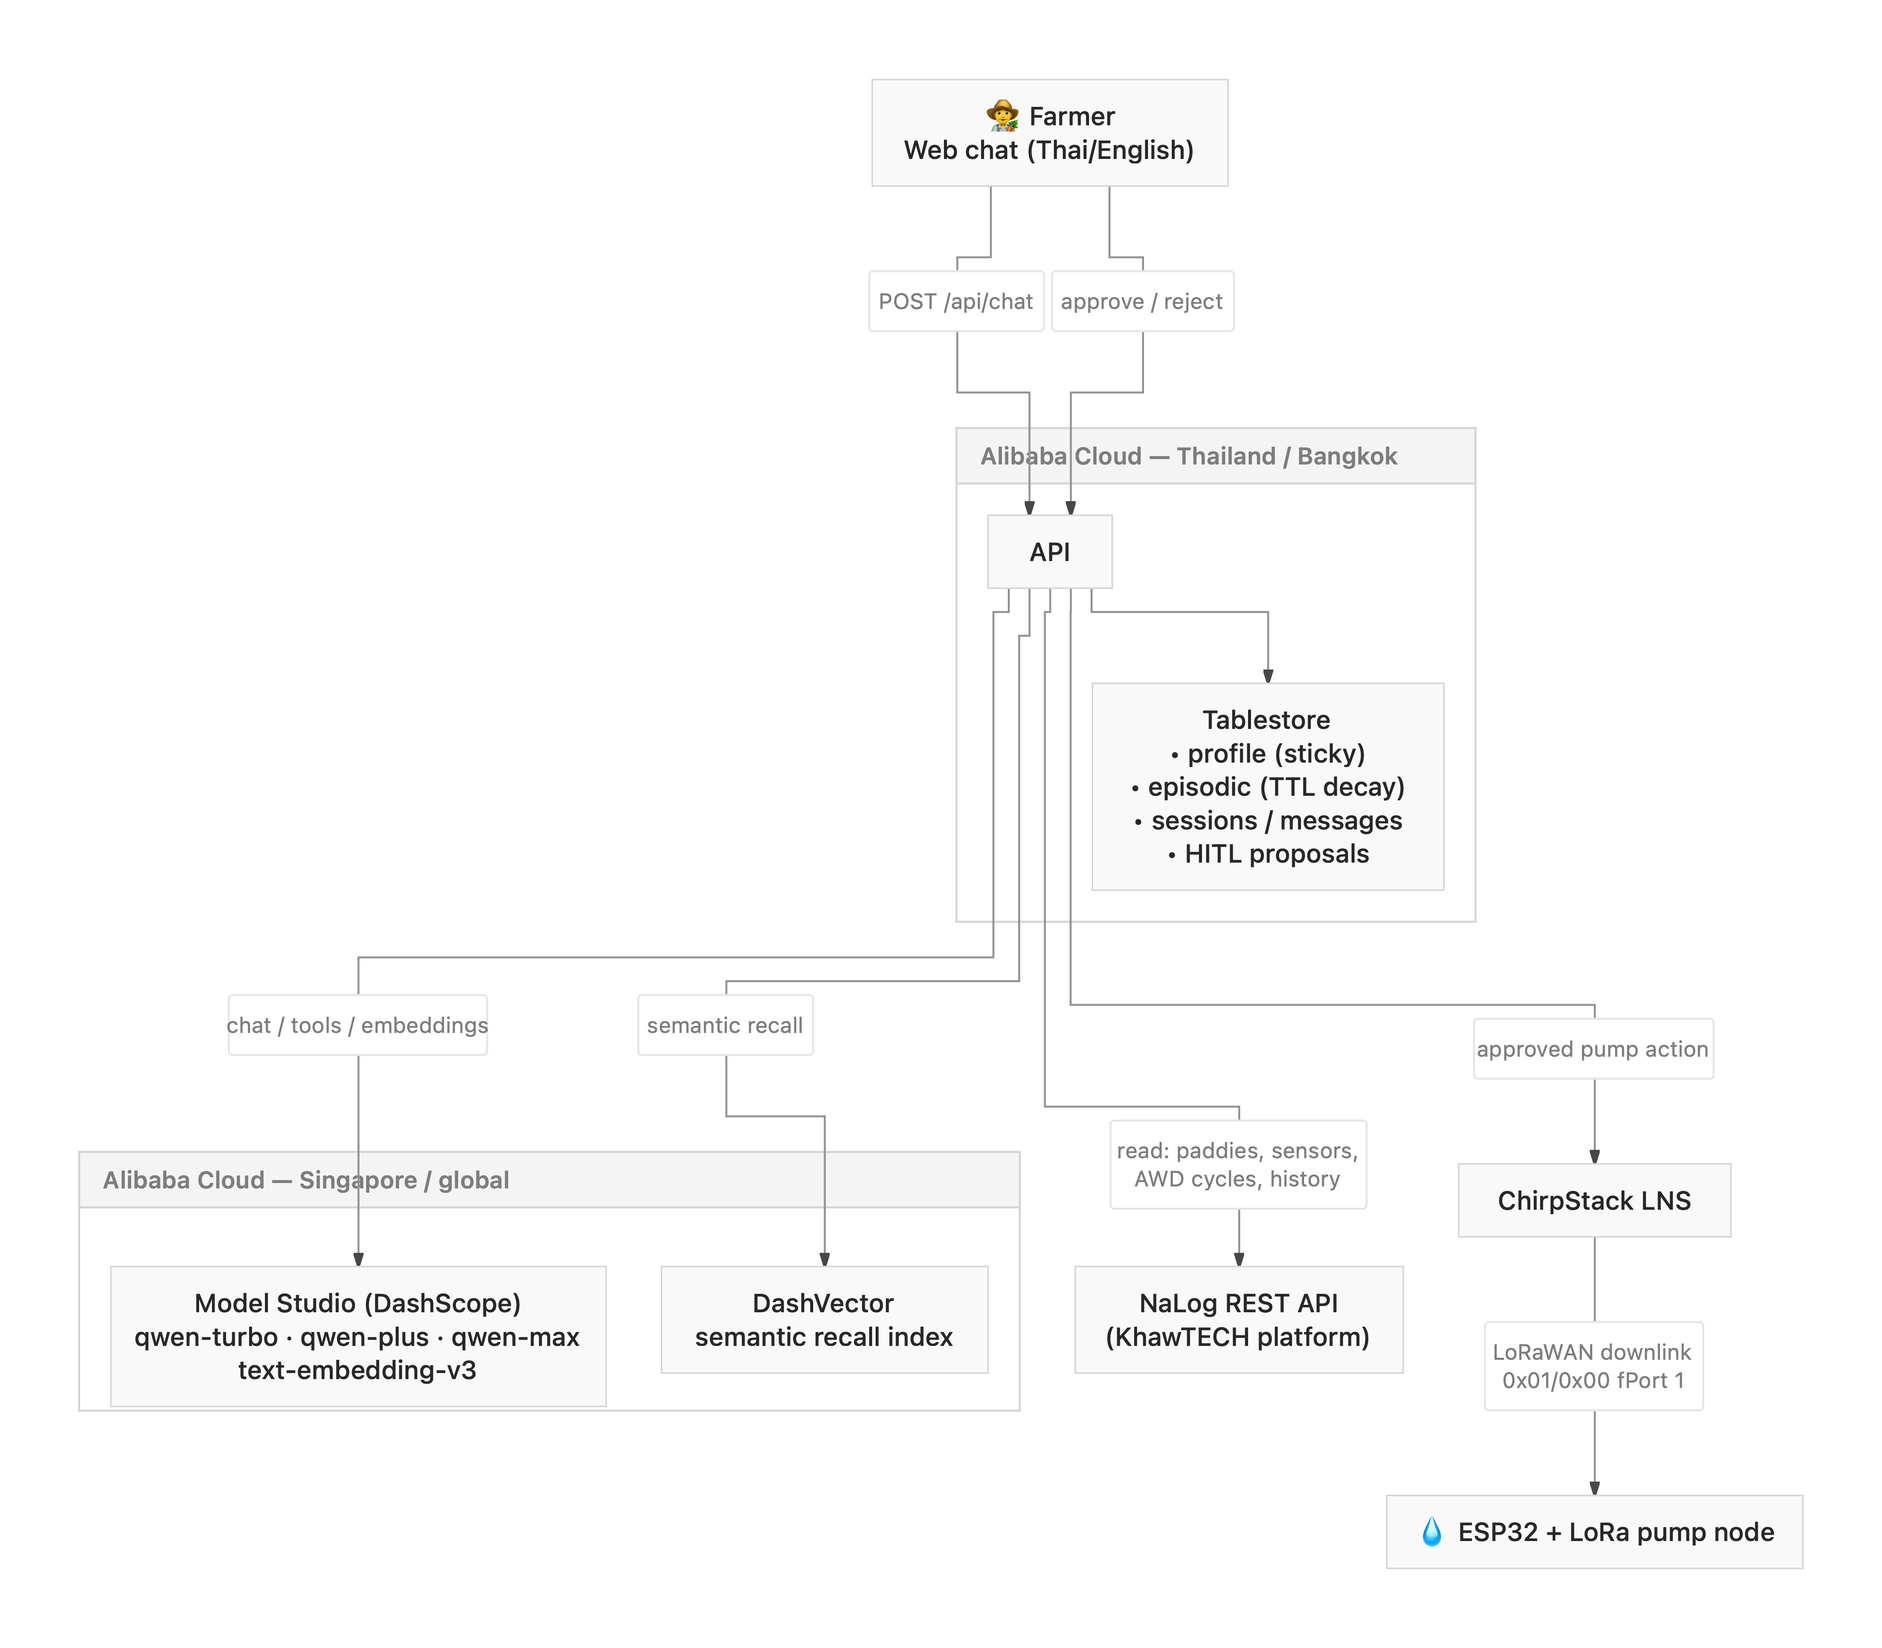
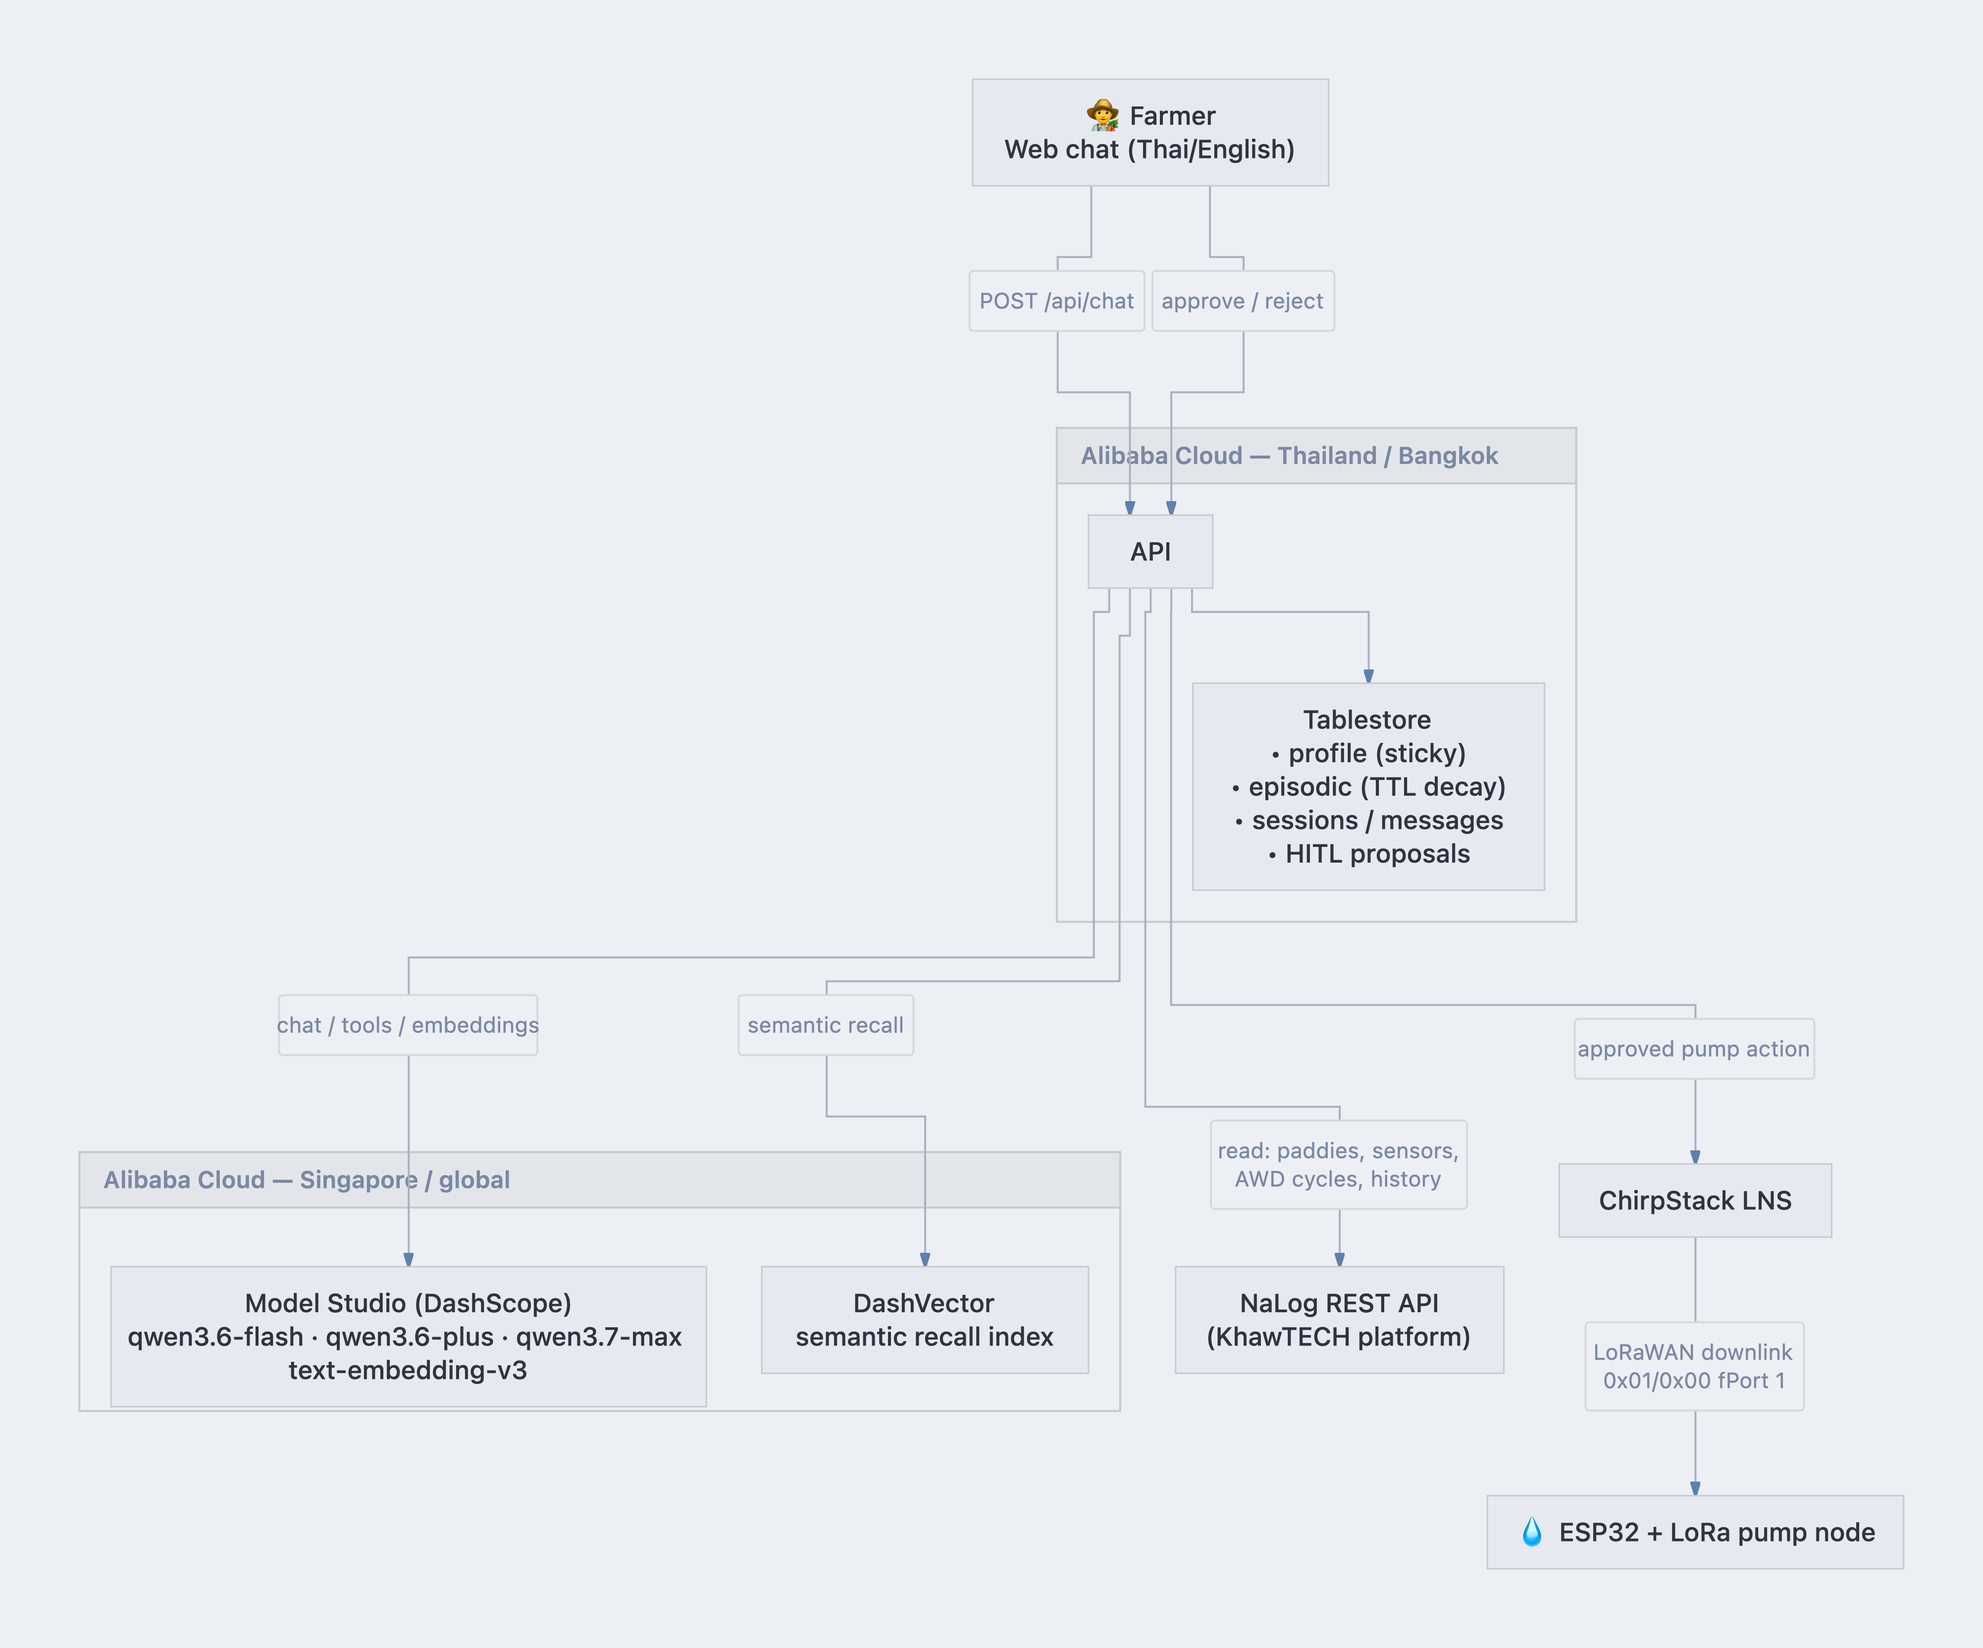
Updated documentation

diff --git a/src/middleware/auth.js b/src/middleware/auth.js
@@ -1,7 +1,13 @@
+import { timingSafeEqual } from 'node:crypto';
 import config from '../config.js';
 import logger from '../logger.js';
 import { verifyFirebaseToken, farmerIdFromToken } from '../utils/jwt.js';
 import { DEMO_FARMER } from '../integrations/demoData.js';
+
+function safeEqual(a, b) {
+  if (a.length !== b.length) return false;
+  return timingSafeEqual(Buffer.from(a), Buffer.from(b));
+}
 
 // Shared-secret guard. No-op when AGENT_API_KEY is unset (open local demo).
 // When set, requires `x-api-key: <key>` or `Authorization: Bearer <key>`.
@@ -9,7 +15,7 @@ export function requireApiKey(req, res, next) {
   if (!config.agentApiKey) return next();
   const header = req.headers['x-api-key'] || '';
   const bearer = (req.headers.authorization || '').replace(/^Bearer\s+/i, '');
-  if (header === config.agentApiKey || bearer === config.agentApiKey) return next();
+  if (safeEqual(header, config.agentApiKey) || safeEqual(bearer, config.agentApiKey)) return next();
   return res.status(401).json({ error: 'unauthorized' });
 }
 

diff --git a/public/index.html b/public/index.html
@@ -34,6 +34,8 @@
           <button data-q="สวัสดีครับ นาแปลง 3 ตอนนี้ต้องสูบน้ำไหม?">นาแปลง 3 ต้องสูบน้ำไหม? 🇹🇭</button>
           <button data-q="What's the water level in Paddy 3 right now and what do you recommend?">Paddy 3 status 🇬🇧</button>
           <button data-q="Should I irrigate the sugarcane field this week?">Sugarcane advice</button>
+          <button data-q="My pump is diesel, it's noisy">🧠 Supersession demo (1/2)</button>
+          <button data-q="Actually I upgraded to an electric pump last week">🧠 Supersession demo (2/2)</button>
         </div>
 
         <form id="chat-form" class="composer">

diff --git a/README.md b/README.md
@@ -4,12 +4,18 @@
 [![License: MIT](https://img.shields.io/badge/License-MIT-green.svg)](LICENSE)
 ![Node 20+](https://img.shields.io/badge/node-%E2%89%A520-brightgreen)
 
-> A **Qwen-powered MemoryAgent** that helps smallholder rice & sugarcane farmers in
-> Isan, Thailand make better, cheaper irrigation decisions — and gets smarter every
-> season by remembering each farmer and each paddy.
->
-> Built on **Alibaba Cloud** (Model Studio / Qwen, Function Compute, Tablestore,
-> DashVector) on top of the [NaLog / KhawTECH](https://khawtech.com) IoT irrigation platform.
+> My father-in-law died alone in a rice paddy in Isan, checking water levels by eye.
+> That's the trip millions of Thai farmers still make every day — walking kilometres
+> in 40 °C heat just to see if the pump is still running. Last season, the AWD sensors
+> we deployed on one family's paddies cut pumping by 31% with zero yield loss.
+> Every sensor we add is one less reason for that walk. **Hackathon funding goes
+> directly into sensors and LoRa gateways.**
+
+**NaLog Agent** is a **Qwen-powered MemoryAgent** that turns those sensors into
+personalised, remembered agronomic advice for smallholder rice and sugarcane farmers —
+an agronomist with perfect memory in every farmer's pocket. Built on **Alibaba Cloud**
+(Model Studio / Qwen, Function Compute, Tablestore, DashVector) on top of the
+[NaLog / KhawTECH](https://khawtech.com) IoT irrigation platform.
 
 > **Production system — not a hackathon prototype.** This is the same backend deployed
 > on Alibaba Cloud Function Compute in Bangkok (`ap-southeast-7`), serving real farmers
@@ -17,11 +23,6 @@
 > handles real conversations, real sensor data, and real pump commands. The demo mode
 > included here uses a bundled dataset so anyone can run it locally — the production
 > path is one `STORAGE_DRIVER=alibaba` away.
->
-> **Why this exists:** A family member died alone in a rice paddy, checking water by
-> eye (the kind of trip millions of farmers make daily). Every sensor we deploy is one
-> less reason for that walk. We're in active talks with local government in Isan to
-> expand coverage. Hackathon funding goes directly into sensors and LoRa gateways.
 
 **Hackathon track:** **Track 1 — MemoryAgent** (primary submission). The same codebase
 also includes an autonomous sensor-alert webhook (`POST /api/alerts`) that *could* qualify
@@ -45,7 +46,7 @@ raw data isn't advice. Good agronomic guidance has to be **hyper-local and remem
 *this* paddy drains faster after re-levelling, *this* farmer prefers to approve the pump
 himself near flowering, *last* season AWD here cut pumping 31% with no yield loss.
 
-The NaLog Agent is the agronomist with perfect memory in every farmer's pocket. It:
+NaLog Agent is the agronomist with perfect memory in every farmer's pocket. It:
 
 - **Accumulates experience** per farmer and per paddy, across sessions and seasons.
 - **Detects and supersedes contradictions** — when learning extracts a fact that
@@ -251,6 +252,8 @@ many stale memories into the context. An **ablation study** proves each mechanis
 its place: removing supersession leaks 5 stale facts; removing reinforcement drops
 Recall@5 to 92.9%; supersession alone without the blend also loses recall quality.
 
+![Benchmark: Recall@5 and stale-leak comparison across retrieval strategies](docs/benchmark.svg)
+
 CI runs on every push and PR via [GitHub Actions](.github/workflows/ci.yml) on Node 20, 22 and 24 and includes `npm test`, `npm run check` (selfcheck), the MCP client smoke test, and `npm audit`. Node 24 is the active LTS dev/Docker target; Node 20 is kept in the matrix to match Alibaba Function Compute's bundled custom-runtime version.
 
 ## Track 1 rationale
@@ -295,7 +298,7 @@ human-in-the-loop approval → LoRaWAN pump command — but the hackathon entry 
 | **Technical Depth & Engineering (30%)** | Deliberate 4-tier Qwen routing (`qwen3.7-max` thinking + tool calls, `qwen3.6-plus` NLG, `qwen3.6-flash` extraction + adjudication, `qwen3-vl-plus` vision) with hybrid-thinking control and SSE streaming; **MCP server** exposing all 9 tools; a **benchmarked 3-tier decaying memory** with **LLM-adjudicated supersession** (vector-first recall + `qwen3-rerank`, recency decay, reinforcement, contradiction detection, Tablestore TTL, 3-tier dedup, orphan-vector cleanup) — **100% Recall@5, 0 stale facts served** vs Mem0-style baseline at 92.9% with 10 stale leaks; verified Firebase identity (RS256 against Google certs, no SDK); 122 automated tests + CI; **ablation study** proving each mechanism earns its place. |
 | **Innovation & AI Creativity (30%)** | **LLM-adjudicated contradiction supersession** — when a new fact contradicts an old memory (sim 0.50–0.85), a cheap `qwen3.6-flash` adjudication decides if the old fact is superseded; the old memory is kept for auditability but excluded from recall; **safety rescue floor** surfaces critical memories regardless of query similarity; **explainable recall** (`memory_trace` SSE) and **memory diff** (`memory_diff` SSE) make the memory system transparent; **ablation study** proves each mechanism earns its place; autonomous sensor-alert turns with human-in-the-loop actuation; cross-encoder reranking; field-photo grounding via Qwen-VL; modular storage/vector drivers; bounded ReAct loop with graceful degradation; autonomous post-turn learning with 3-tier dedup (exact + semantic + adjudication); token-budget discipline with concurrency-safe per-turn reporting and retry/backoff. |
 | **Problem Value & Impact (25%)** | **Production deployment** serving real farmers (Kut Chum, Yasothon) — water/diesel savings, methane reduction, food security for poor families; open-source (MIT), productizable across co-ops and SE Asia. |
-| **Presentation & Documentation (15%)** | Architecture diagram, live streaming UI with tool-trace transparency, reproducible benchmark with chart ([docs/BENCHMARK.md](docs/BENCHMARK.md)), full docs (`README`, `docs/ARCHITECTURE.md`, `docs/proof-of-alibaba-deployment.md`), [blog post](https://albertoroura.com/adding-qwen-powered-memory-augmented-agent-to-nalog-platform/). |
+| **Presentation & Documentation (15%)** | Architecture diagram, live streaming UI with tool-trace transparency, reproducible benchmark with chart ([docs/BENCHMARK.md](docs/BENCHMARK.md)), full docs (`README`, `docs/ARCHITECTURE.md`, `docs/proof-of-alibaba-deployment.md`, [`docs/SECURITY.md`](docs/SECURITY.md)), [blog post](https://albertoroura.com/adding-qwen-powered-memory-augmented-agent-to-nalog-platform/). |
 
 ## Project layout
 
@@ -312,7 +315,7 @@ public/         web chat UI (streaming, tool trace, photo upload, memory panel)
 deploy/         Tablestore/DashVector provisioning, Function Compute deploy
 scripts/        selfcheck, MCP smoke, deployment smoke, memory benchmark, demo seed
 test/           122 automated tests (all deterministic, no cloud dependencies)
-docs/           architecture, Alibaba proof, benchmark, integration guide, connector API
+docs/           architecture, Alibaba proof, benchmark, security, integration guide, connector API
 ```
 
 ## Blog post

diff --git a/docs/SECURITY.md b/docs/SECURITY.md
@@ -1,0 +1,141 @@
+# Security model
+
+NaLog Agent controls real irrigation pumps via LoRaWAN downlinks. A hallucinated
+"turn on" command can flood a paddy, waste diesel, or damage a crop in flowering
+stage. Security isn't bolted on — it shapes the architecture.
+
+## Identity & access control
+
+### Firebase JWT (RS256) verification
+
+Farmer identity comes from a Firebase ID token passed in `X-NaLog-Token`. The
+backend verifies it **from first principles** — no Firebase Admin SDK:
+
+1. Decode the JWT header, extract `kid`.
+2. Fetch Google's rotating X.509 public certificates (`googleapis.com/…/certificates`),
+   cached until `max-age` expires.
+3. Parse the X.509 cert for the matching `kid` into an RSA public key.
+4. Verify the signature with `crypto.createVerify('RSA-SHA256')`.
+5. Validate `iss`, `aud` (must match `FIREBASE_PROJECT_ID`), `exp`, `iat`, and
+   reject any `alg` that isn't `RS256` (algorithm-confusion defense).
+
+Implementation: [`src/utils/jwt.js`](../src/utils/jwt.js).
+Tests: 7 cases including tampering, expiry, wrong audience/issuer, and `alg: 'none'`
+rejection ([`test/jwt.test.js`](../test/jwt.test.js)).
+
+### API key gate (constant-time comparison)
+
+The shared-secret `AGENT_API_KEY` gate uses `crypto.timingSafeEqual` to prevent
+timing side-channels. When the key is unset, the gate is a no-op (local demo mode).
+
+Implementation: [`src/middleware/auth.js`](../src/middleware/auth.js).
+
+### Farmer scoping
+
+Every memory, session, and proposal is scoped to the authenticated `farmerId`.
+The chat route **ignores** any `farmerId` sent in the request body — identity is
+derived exclusively from the verified token. Session history returns 403 if the
+session belongs to a different farmer.
+
+## Input validation
+
+### MCP tool inputs (Zod)
+
+All 9 MCP tool inputs are validated with Zod schemas — `z.string()`, `z.enum()`,
+`z.number().min().max()`, `z.string().url()` — before any handler runs.
+
+Implementation: [`src/mcp/server.js`](../src/mcp/server.js).
+
+### HTTP route validation
+
+- Chat: message required, max 4000 chars, image format/size validated before
+  forwarding to Qwen-VL.
+- Alerts: `paddyId` must be a string; webhook is token-gated in production.
+- Body size: Express JSON parser capped at 8 MB.
+
+## LLM output guardrails
+
+### Grounding: never invent water levels
+
+The system prompt contains hard rules:
+
+> *"Always call `get_paddy_status` / `get_sensor_history` before advising.
+> Never invent water levels, pump states, or sensor readings."*
+
+The compose step (chat-tier prompt) reinforces: *"Ground your reply in the actual
+numbers from the tool results."* An anti-hallucination guard in the ReAct loop
+forbids claiming a proposal was prepared unless `propose_irrigation` actually ran.
+
+Implementation: [`src/agent/prompts.js`](../src/agent/prompts.js) (rules),
+[`src/agent/agent.js`](../src/agent/agent.js) (compose + anti-hallucination).
+
+### Proposal-only actuation
+
+The LLM **cannot** directly control a pump. It can only call `propose_irrigation`,
+which creates a `status: 'pending'` record. The LoRaWAN downlink is sent **only**
+when the farmer taps "Approve" in the UI, triggering `POST /api/proposals/:id/approve`
+with ownership verification.
+
+`REQUIRE_HUMAN_APPROVAL=true` is the default. Even if misconfigured, the tool
+handler never calls ChirpStack — only the approval route does.
+
+Implementation: [`src/agent/tools.js`](../src/agent/tools.js) (tool handler),
+[`src/routes/proposals.js`](../src/routes/proposals.js) (approval + downlink).
+
+## Memory injection prevention
+
+### Embedding similarity gates
+
+Memory writes go through a 3-tier dedup pipeline before anything is persisted:
+
+1. **Exact text match** — rejects verbatim duplicates.
+2. **Semantic near-duplicate** (cosine ≥ 0.85) — rejects paraphrases of existing
+   memories.
+3. **Contradiction adjudication** (cosine 0.50–0.85) — a cheap `qwen3.6-flash`
+   call determines whether a new fact supersedes, corrects, or contradicts an
+   existing one. If yes, the old memory is marked `supersededBy` and excluded from
+   recall — but kept in storage for auditability.
+
+### Cross-farmer isolation
+
+Vector recall is filtered by `farmerId` at the DashVector query level. A farmer
+can never see or influence another farmer's memories.
+
+### Superseded memory exclusion
+
+`MemoryManager.recall()` explicitly filters out any memory where `supersededBy`
+is set, preventing stale or manipulated facts from entering the context window.
+
+Implementation: [`src/memory/memoryManager.js`](../src/memory/memoryManager.js).
+
+## Token budget discipline
+
+| Control | Value | Where |
+|---------|-------|-------|
+| `MAX_TOKENS_PER_TURN` | 6000 (configurable) | Passed to DashScope `max_tokens` |
+| `MAX_TOOL_ROUNDS` | 6 | Bounds the ReAct tool loop |
+| 4-tier model routing | `qwen3.7-max` (thinking), `qwen3.6-plus` (NLG), `qwen3.6-flash` (extraction), `qwen3-vl-plus` (vision) | Cheap models for cheap tasks |
+| Per-turn accounting | Concurrency-safe `newUsageCollector()` tracks input/output/total tokens per turn | Reported in every API response |
+
+Implementation: [`src/llm/dashscope.js`](../src/llm/dashscope.js),
+[`src/agent/agent.js`](../src/agent/agent.js).
+
+## Rate limiting
+
+- **Upstream**: custom retry with exponential backoff on DashScope 429/5xx
+  (OpenAI SDK auto-retries disabled).
+- **Body size**: Express JSON parser capped at 8 MB.
+- **Message length**: 4000-char cap on chat input.
+- **Gateway**: Alibaba Function Compute HTTP triggers support WAF and throttle
+  rules at the API Gateway layer; the app relies on this + the API key gate
+  for production rate control.
+
+## Other hardening
+
+| Measure | Detail |
+|---------|--------|
+| CORS allow-list | `ALLOWED_ORIGINS` env var; no wildcard `*` in production |
+| `x-powered-by` disabled | Reduces server fingerprinting |
+| Secret redaction | Logger strips `authorization`, `apiKey`, `token` fields before writing |
+| Memory TTL | Tablestore rows expire after ~400 days; orphan vectors cleaned lazily during recall |
+| Graceful degradation | Rerank offline → falls back to blend score; vector service down → still serves profile + session context |
